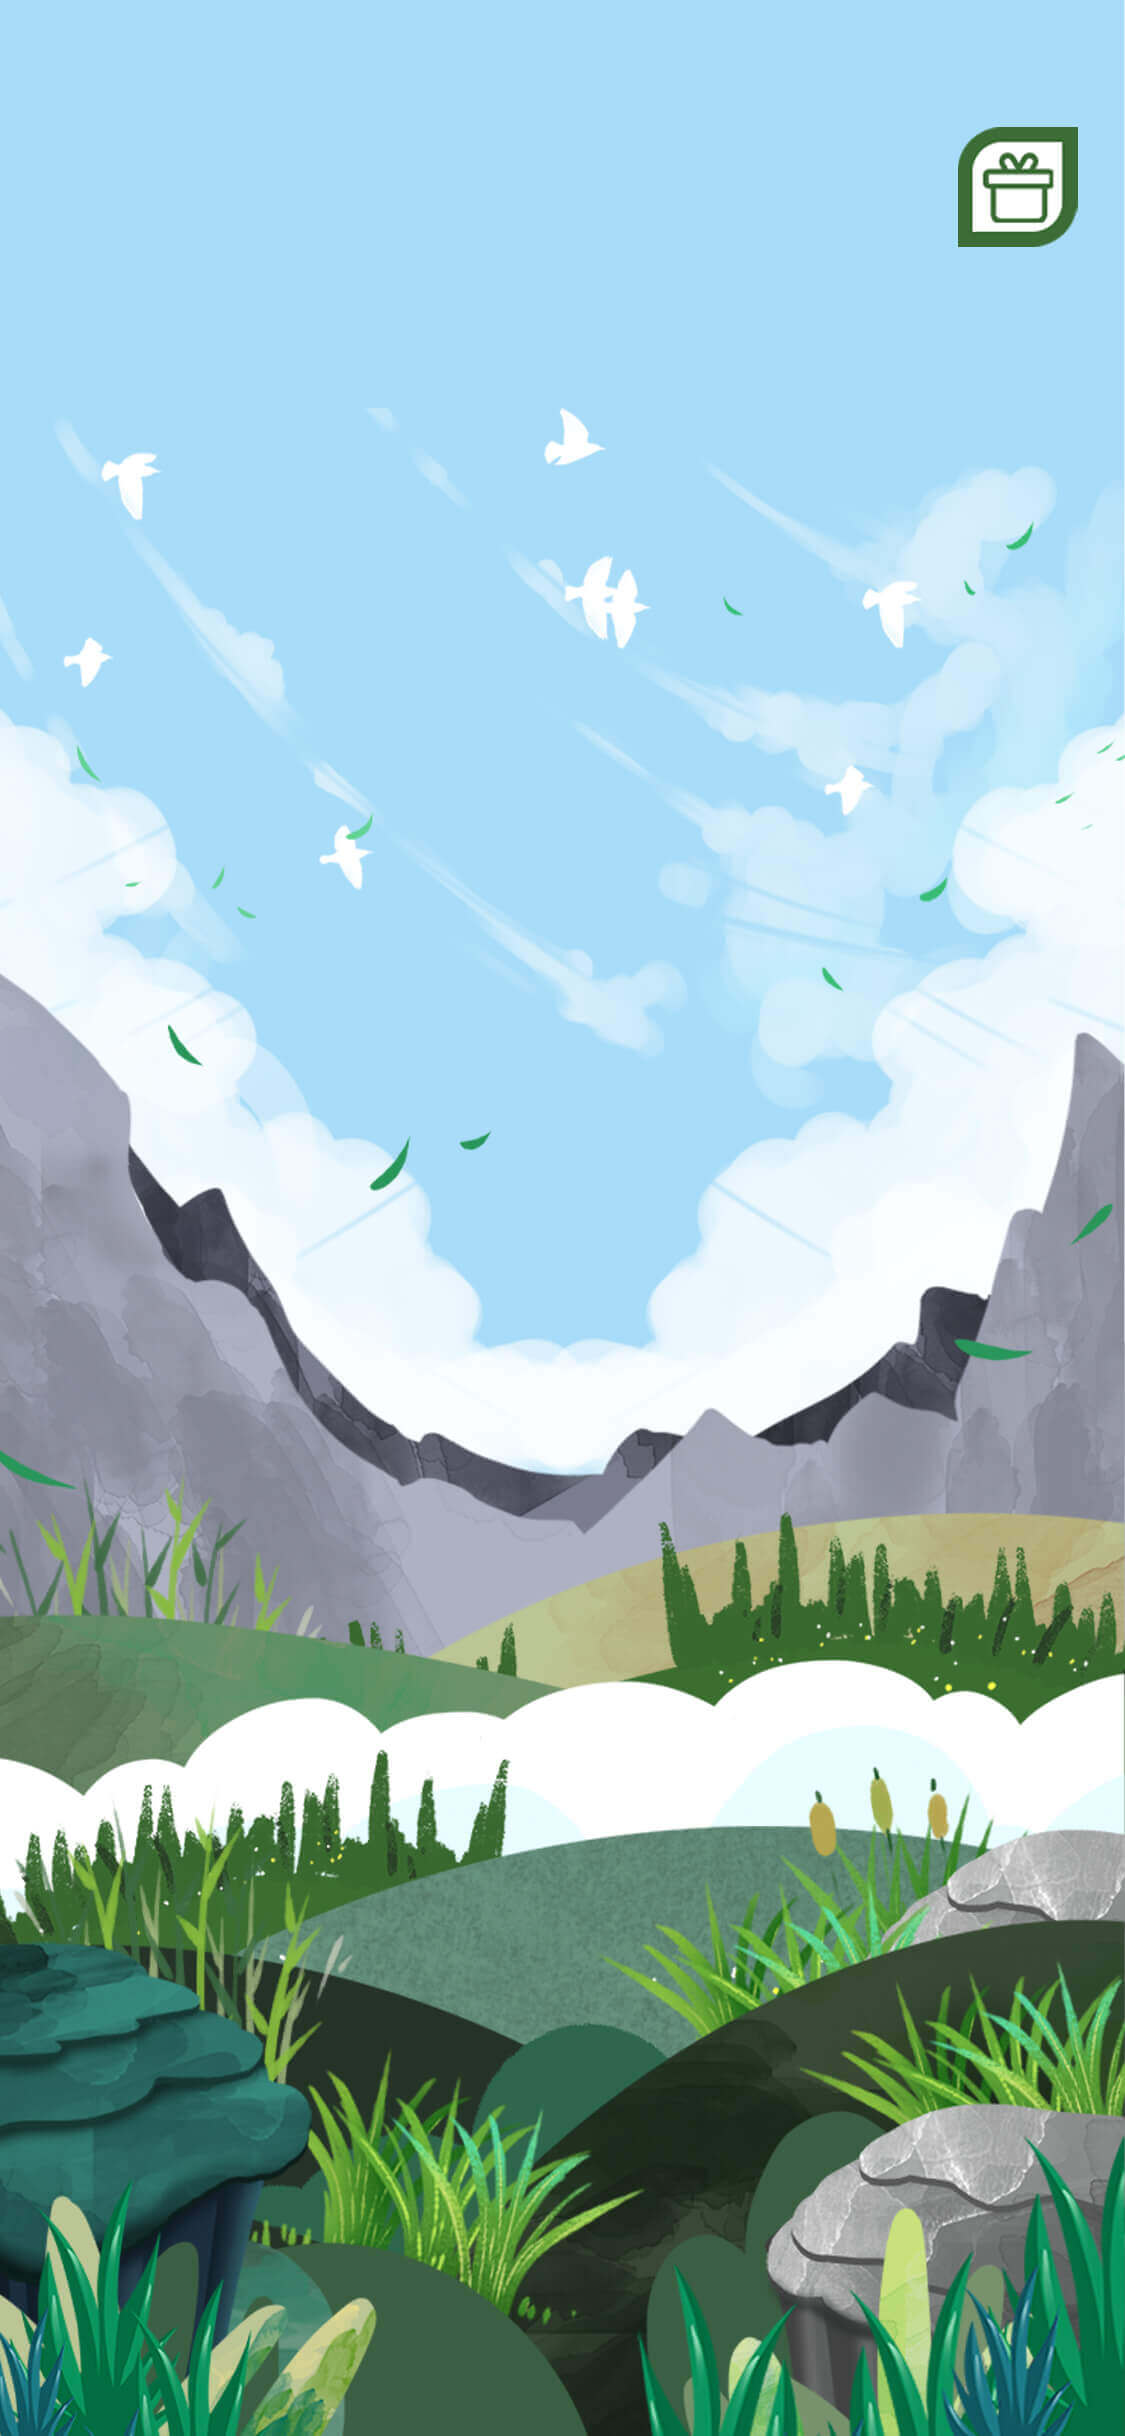
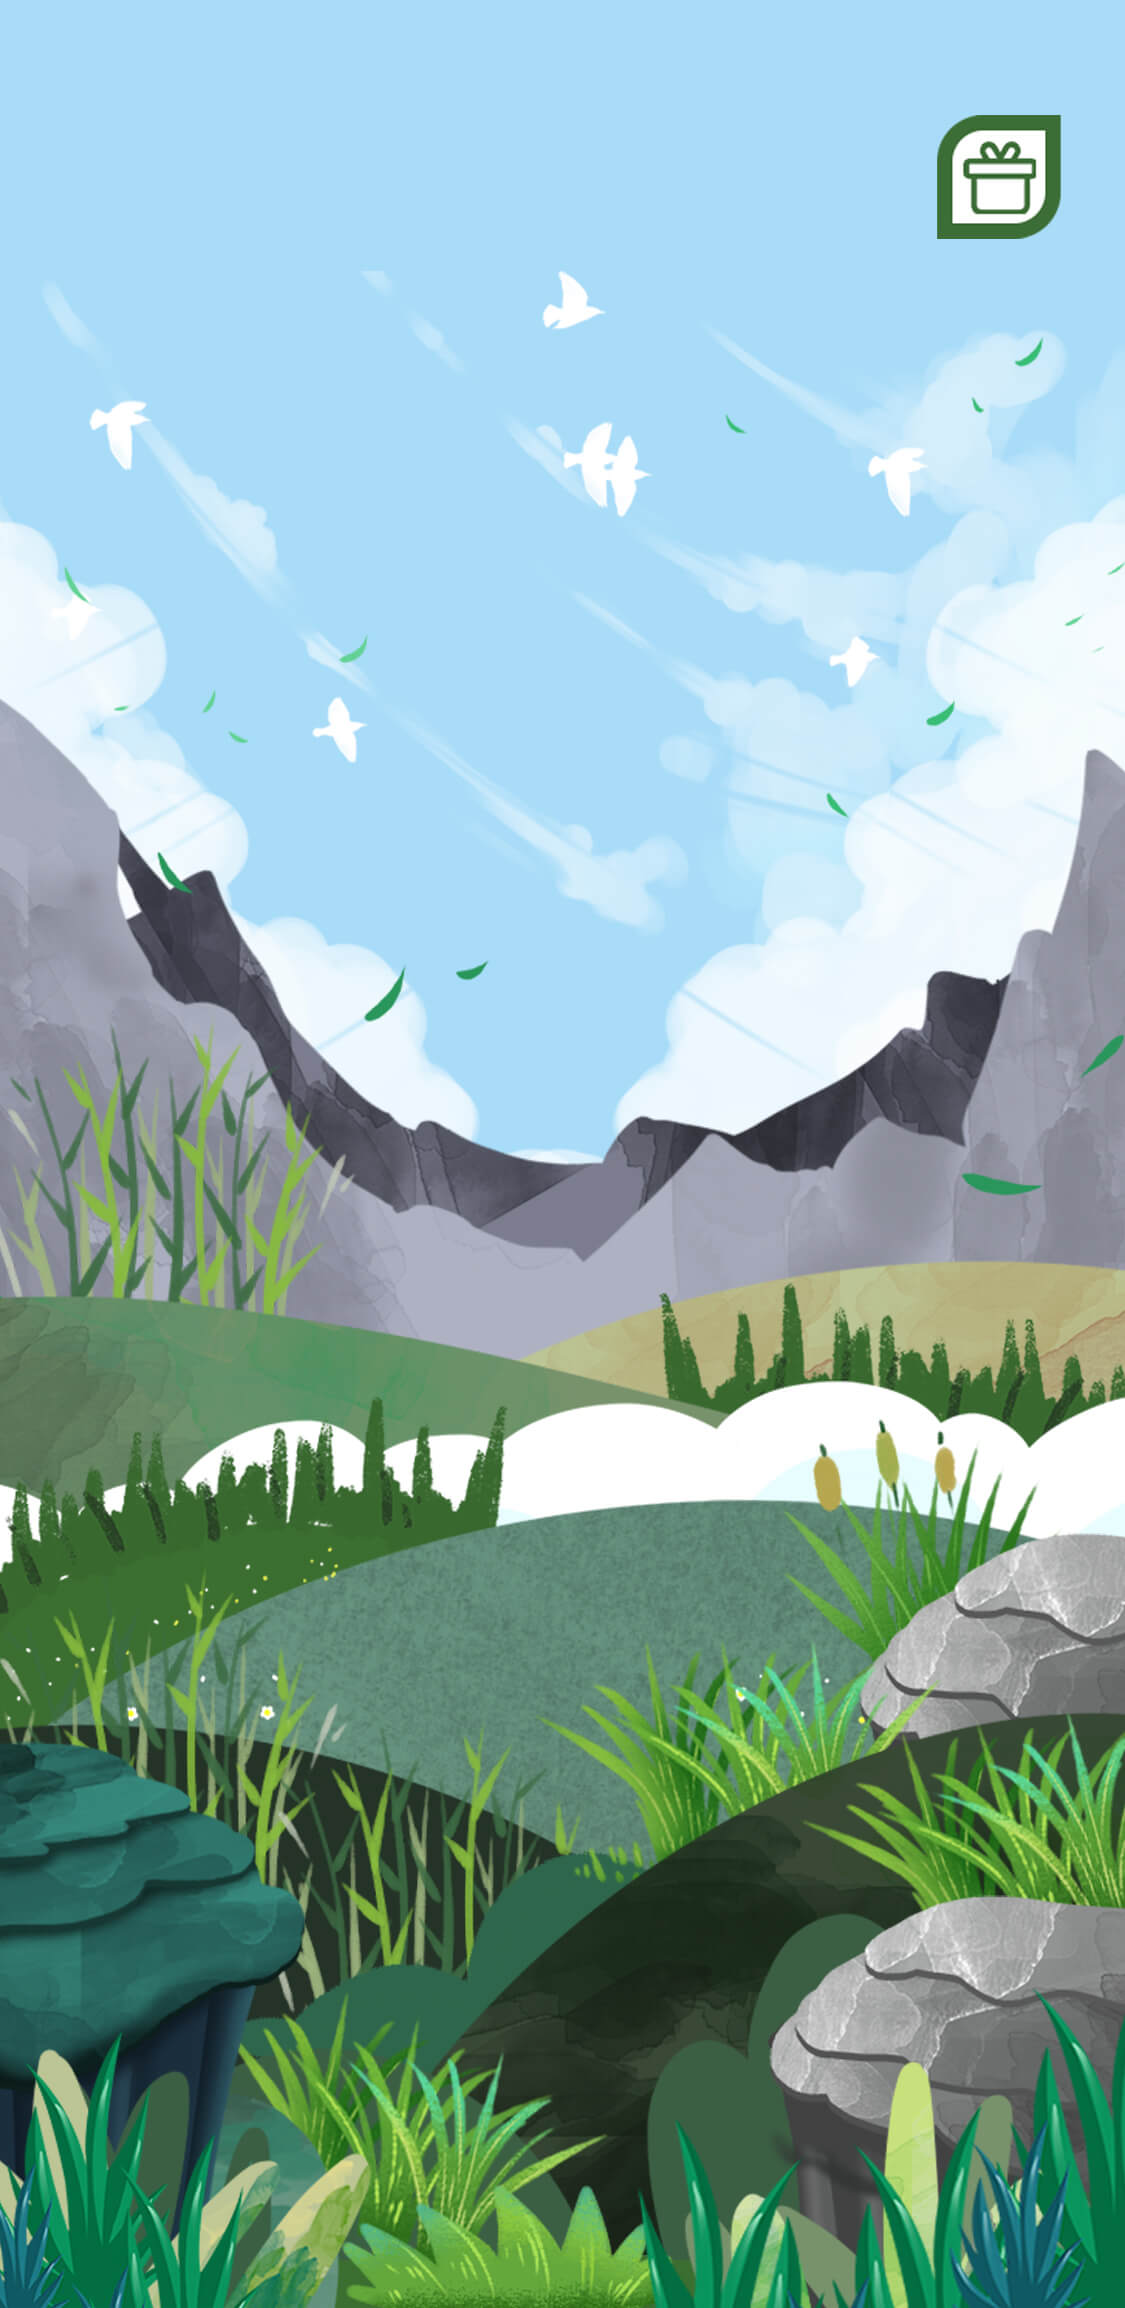
更新尺寸

diff --git a/左庭右院/css/style.css b/左庭右院/css/style.css
@@ -1,4 +1,9 @@
 @charset "UTF-8";
+body {
+  width: 100%;
+  height: 100%;
+  overflow: hidden;
+}
 .btn {
   display: inline-block;
   width: 100%;
